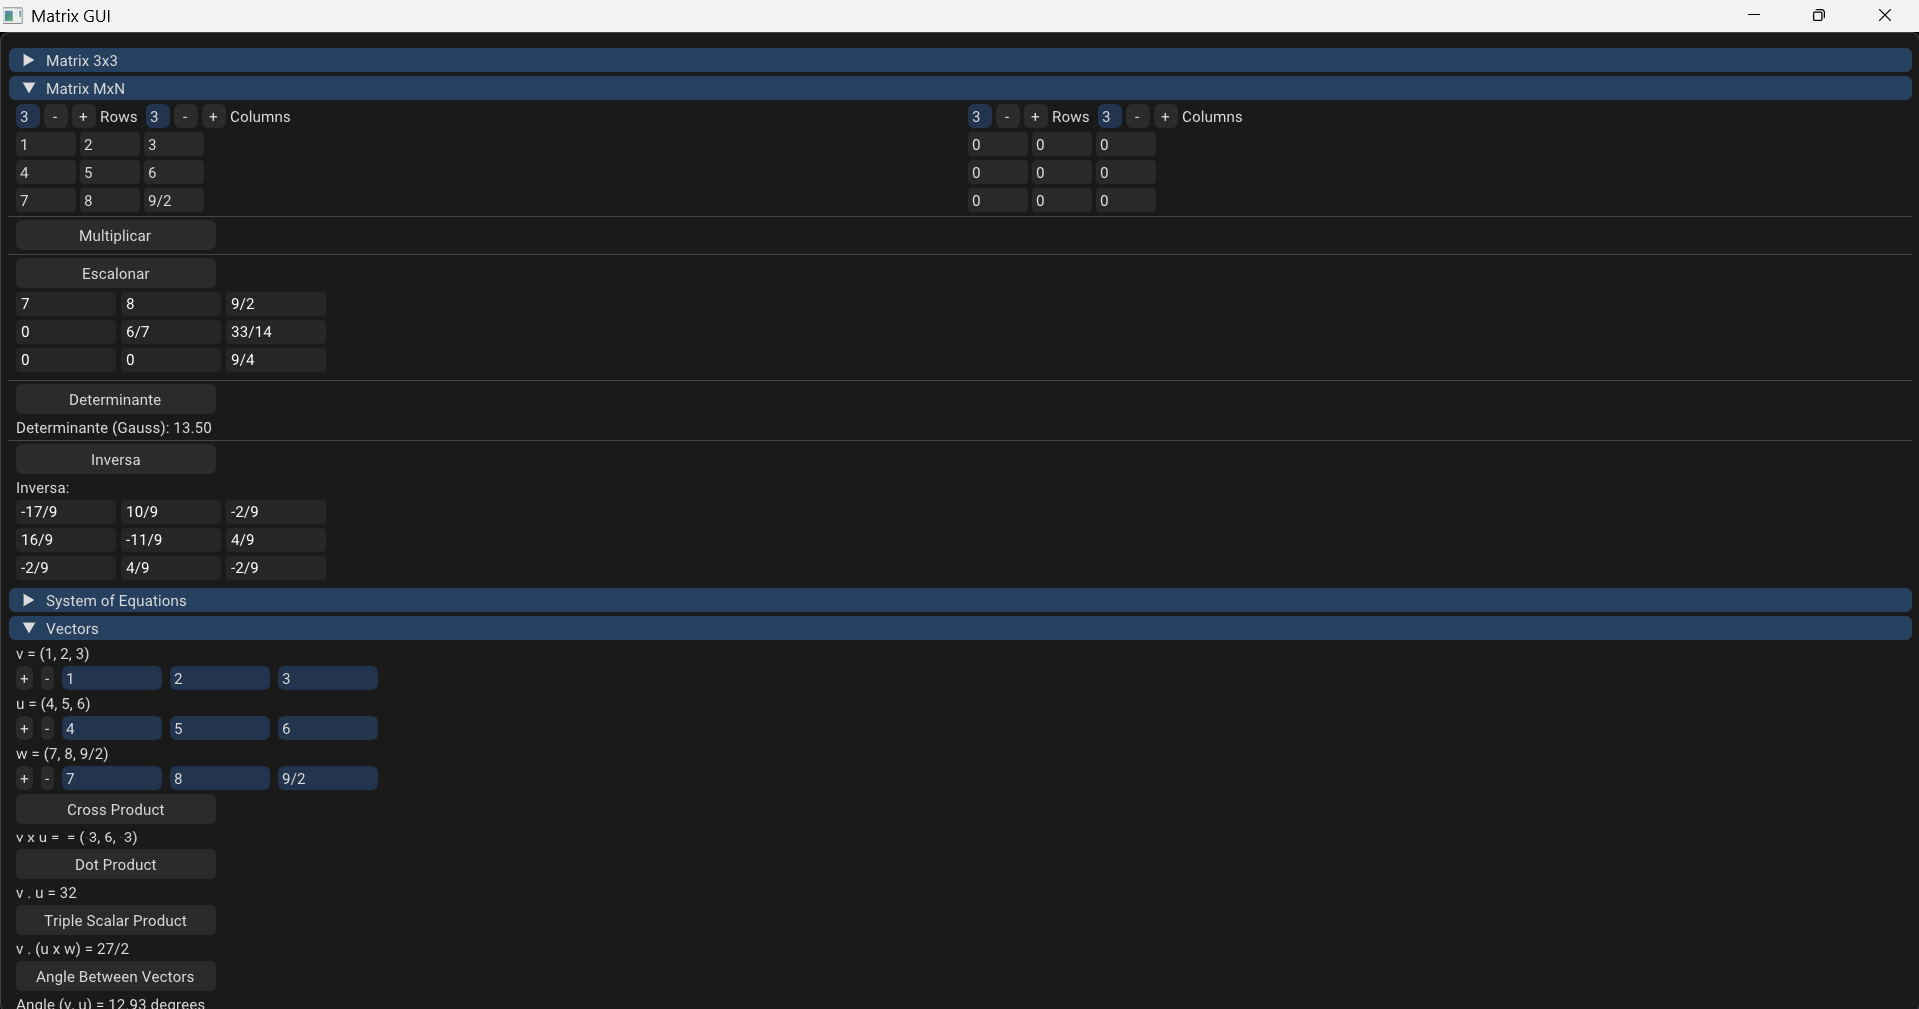
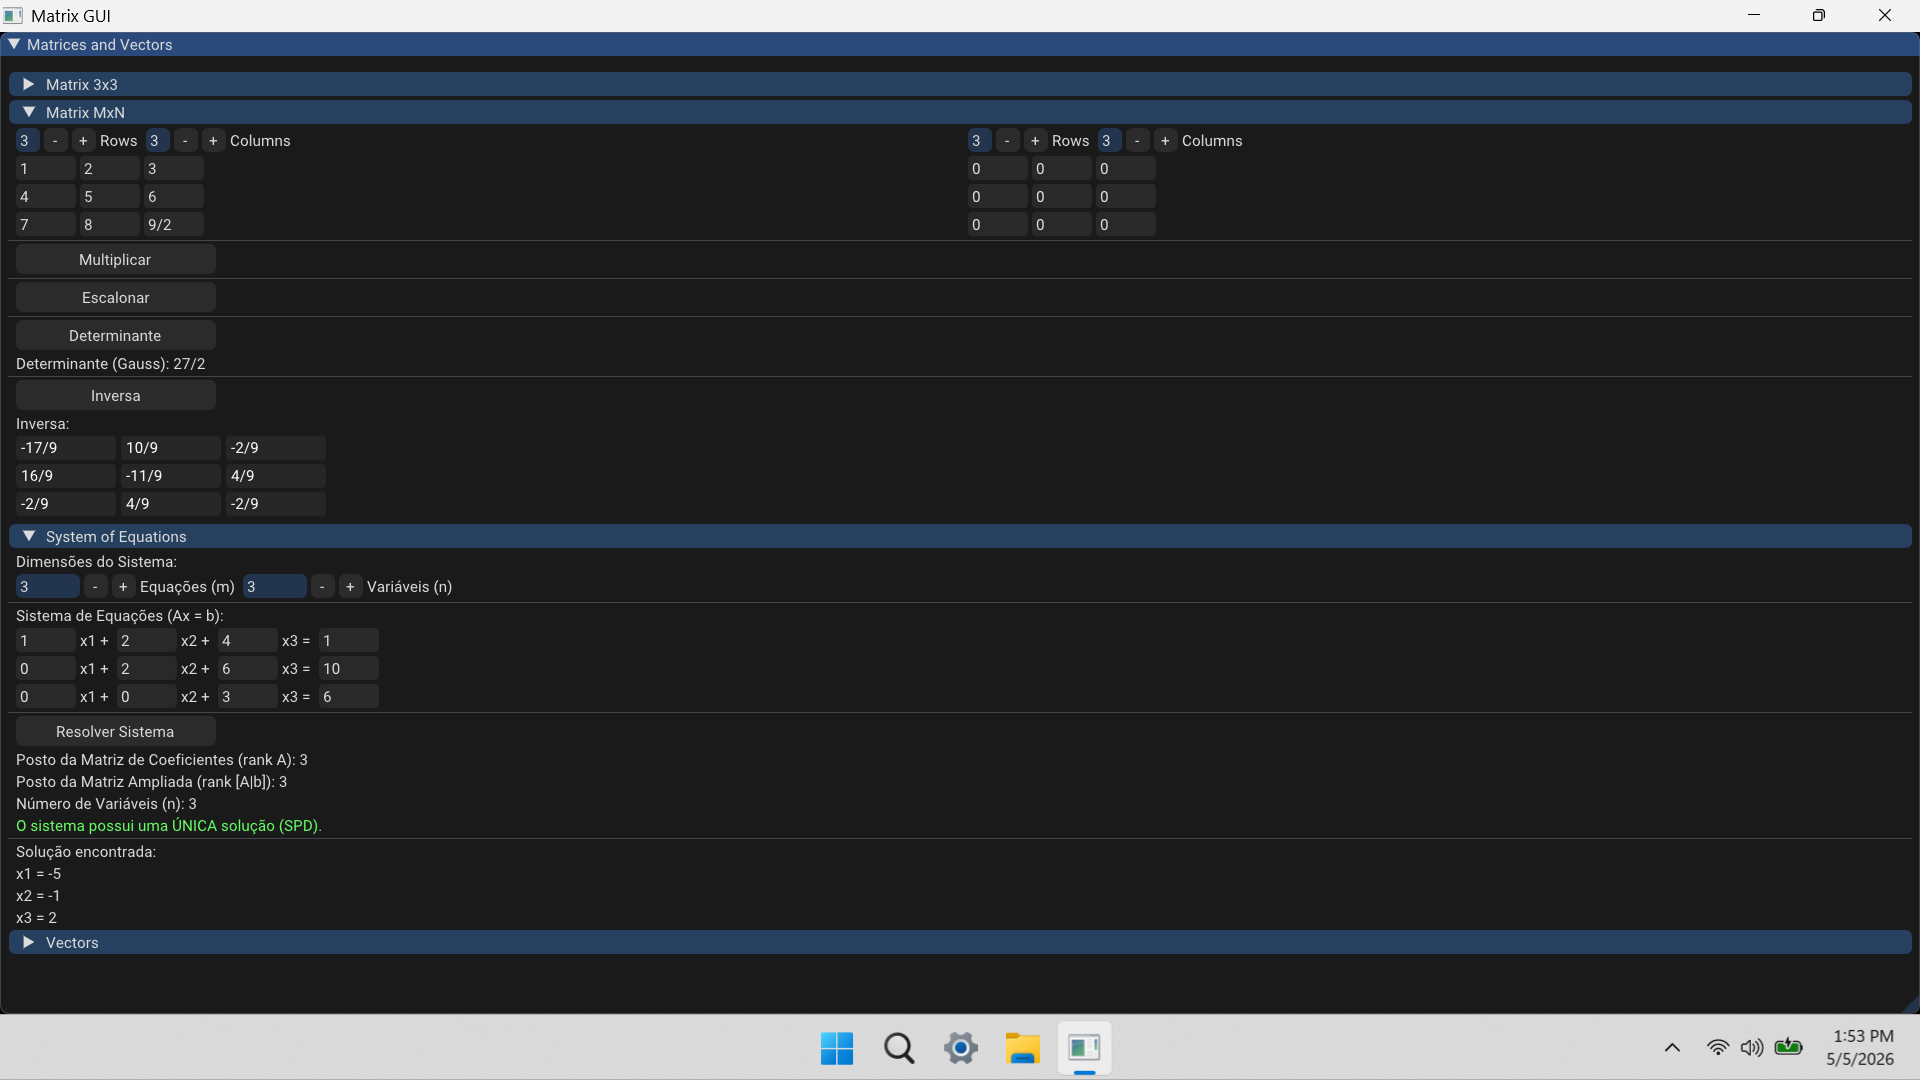
add camera + 3D vectors

diff --git a/src/main.cpp b/src/main.cpp
@@ -11,6 +11,13 @@
 
 #include <Eigen/Dense>
 
+#include <glm/vec3.hpp> // glm::vec3
+#include <glm/vec4.hpp> // glm::vec4
+#include <glm/mat4x4.hpp> // glm::mat4
+#include <glm/ext/matrix_transform.hpp> // glm::translate, glm::rotate, glm::scale
+#include <glm/ext/matrix_clip_space.hpp> // glm::perspective
+#include <glm/ext/scalar_constants.hpp> // glm::pi
+
 int main() {
     if (!glfwInit()) return 1;
     glfwWindowHint(GLFW_CLIENT_API, GLFW_NO_API);
@@ -135,8 +142,9 @@ int main() {
         PushWindowStyle();
         PushButtonStyle();
 
-        ImGui::Begin("Matrices and Vectors", nullptr,
-            ImGuiWindowFlags_NoDecoration | ImGuiWindowFlags_NoMove | ImGuiWindowFlags_NoResize);
+        // ImGui::Begin("Matrices and Vectors", nullptr, ImGuiWindowFlags_NoDecoration | ImGuiWindowFlags_NoMove | ImGuiWindowFlags_NoResize);
+
+        ImGui::Begin("Matrices and Vectors", nullptr);
 
         // ----------------------------------------------------------------
         // Matrix 3x3
@@ -247,6 +255,7 @@ int main() {
             static int rows = 3, cols = 3;
             static std::vector<std::vector<double>> matMN(rows, std::vector<double>(cols, 0.0));
             static double detMN = 0.0;
+			static std::string detMNFrac = "";
             static bool hasDetMN = true;
             static bool detComputed = false;
             static bool multiplicationValid = true;
@@ -319,6 +328,7 @@ int main() {
                 if (rows == cols) {
                     try {
                         detMN = determinant(matMN);
+                        detMNFrac = valueToFraction(detMN);
                         hasDetMN = true;
                         detComputed = true;
                     } catch (const std::exception&) {
@@ -333,7 +343,7 @@ int main() {
             if (!hasDetMN)
                 ImGui::TextDisabled("Determinante: Apenas para matrizes quadradas.");
             else if (detComputed)
-                ImGui::Text("Determinante (Gauss): %.2f", detMN);
+                ImGui::Text("Determinante (Gauss): %s", detMNFrac.c_str());
 
             ImGui::Separator();
             if (ImGui::Button("Inversa##mn", ImVec2(200, 30))) {
@@ -574,6 +584,103 @@ int main() {
                 else {
                     ImGui::TextDisabled("Angle calculation requires equal sizes!");
                 }
+            }
+
+			// Visualization of vectors in 3D space
+            
+            // --- CANVAS ---
+            ImDrawList* draw_list = ImGui::GetWindowDrawList();
+            ImVec2 canvas_pos = ImGui::GetCursorScreenPos();      // Top-left of drawing area
+            ImVec2 canvas_size = ImVec2(ImGui::GetContentRegionAvail().x, 800.0f); // height
+            ImGui::InvisibleButton("canvas", canvas_size);       
+
+            // --- CAMERA MATRIX ---
+            static float camDist = 10.0f;
+            static glm::vec2 camRot = { 0.5f, 0.5f }; 
+            float aspect = canvas_size.x / canvas_size.y;
+			glm::mat4 mvp = camera(camDist, camRot); // model view projection matrix
+
+			// --- CAMERA MOVEMENT ---
+            //ImGui::SliderFloat("Zoom", &camDist, 2.0f, 50.0f);
+            //ImGui::SliderFloat("Rotation X", &camRot.x, -3.14f, 3.14f);
+            //ImGui::SliderFloat("Rotation Y", &camRot.y, -1.57f, 1.57f);
+
+            ImGuiIO& io = ImGui::GetIO();
+
+            if (ImGui::IsItemHovered()) {
+
+                // Zoom
+                if (io.MouseWheel != 0) {
+                    camDist -= io.MouseWheel * 1.5f;
+                    if (camDist < 2.0f) camDist = 2.0f; 
+                }
+
+				// Rotation
+                if (ImGui::IsMouseDragging(ImGuiMouseButton_Left)) {
+                    ImVec2 delta = io.MouseDelta;
+
+					// Increment rotation 
+                    camRot.x += delta.x * 0.01f;
+                    camRot.y -= delta.y * 0.01f;
+
+                    // Vertica rotation limits
+                    if (camRot.y > 1.57f) camRot.y = 1.57f;
+                    if (camRot.y < -1.57f) camRot.y = -1.57f;
+                }
+            }
+
+            // --- GRID (XYZ PLANE) ---
+            int gridSize = 5; // Draws from -5 to 5
+            ImU32 gridColor = IM_COL32(200, 200, 200, 40); // Faint gray
+
+            for (int i = -gridSize; i <= gridSize; i++) {
+
+				// XY plane lines
+                // Lines parallel to X axis
+                ImVec2 p1 = WorldToScreen(glm::vec3(i, -gridSize, 0), mvp, canvas_pos, canvas_size);
+                ImVec2 p2 = WorldToScreen(glm::vec3(i, gridSize, 0), mvp, canvas_pos, canvas_size);
+                draw_list->AddLine(p1, p2, gridColor);
+                // Lines parallel to Y axis
+                ImVec2 p3 = WorldToScreen(glm::vec3(-gridSize, i, 0), mvp, canvas_pos, canvas_size);
+                ImVec2 p4 = WorldToScreen(glm::vec3(gridSize, i, 0), mvp, canvas_pos, canvas_size);
+                draw_list->AddLine(p3, p4, gridColor);
+
+				// XZ plane lines
+                ImVec2 p5 = WorldToScreen(glm::vec3(i, 0, -gridSize), mvp, canvas_pos, canvas_size);
+                ImVec2 p6 = WorldToScreen(glm::vec3(i, 0, gridSize), mvp, canvas_pos, canvas_size);
+                draw_list->AddLine(p5, p6, gridColor);
+                ImVec2 p7 = WorldToScreen(glm::vec3(-gridSize, 0, i), mvp, canvas_pos, canvas_size);
+                ImVec2 p8 = WorldToScreen(glm::vec3(gridSize, 0, i), mvp, canvas_pos, canvas_size);
+				draw_list->AddLine(p7, p8, gridColor);
+            }
+
+            // --- DRAW AXES (X=Red, Y=Green, Z=Blue) ---
+            ImVec2 origin = WorldToScreen(glm::vec3(0, 0, 0), mvp, canvas_pos, canvas_size);
+            ImVec2 xAxis = WorldToScreen(glm::vec3(gridSize, 0, 0), mvp, canvas_pos, canvas_size);
+            ImVec2 yAxis = WorldToScreen(glm::vec3(0, gridSize, 0), mvp, canvas_pos, canvas_size);
+            ImVec2 zAxis = WorldToScreen(glm::vec3(0, 0, gridSize), mvp, canvas_pos, canvas_size);
+
+            draw_list->AddLine(origin, xAxis, IM_COL32(255, 0, 0, 255), 2.0f);
+            draw_list->AddLine(origin, yAxis, IM_COL32(0, 255, 0, 255), 2.0f);
+            draw_list->AddLine(origin, zAxis, IM_COL32(0, 0, 255, 255), 2.0f);
+
+            // --- DRAW VECTORS ---
+            
+            auto DrawEigenVec = [&](Eigen::VectorXd& v, ImU32 color, const char* label) {
+                if (v.size() >= 3) {
+                    glm::vec3 v_glm(v[0], v[1], v[2]);
+                    ImVec2 end = WorldToScreen(v_glm, mvp, canvas_pos, canvas_size);
+                    draw_list->AddLine(origin, end, color, 3.0f);
+                    draw_list->AddText(end, color, label);
+                }
+                };
+
+            DrawEigenVec(v, IM_COL32(255, 255, 0, 255), "v");
+            DrawEigenVec(u, IM_COL32(0, 255, 255, 255), "u");
+            DrawEigenVec(w, IM_COL32(255, 0, 255, 255), "w");
+            if (crossproduct) {
+                Eigen::VectorXd crossVec = v.head<3>().cross(u.head<3>());
+                DrawEigenVec(crossVec, IM_COL32(255, 0, 255, 255), "v x u");
             }
 
         }

diff --git a/src/app_functions.cpp b/src/app_functions.cpp
@@ -5,6 +5,13 @@
 #include <numeric>
 #include <sstream>
 
+#include <glm/vec3.hpp> // glm::vec3
+#include <glm/vec4.hpp> // glm::vec4
+#include <glm/mat4x4.hpp> // glm::mat4
+#include <glm/ext/matrix_transform.hpp> // glm::translate, glm::rotate, glm::scale
+#include <glm/ext/matrix_clip_space.hpp> // glm::perspective
+#include <glm/ext/scalar_constants.hpp> // glm::pi
+
 // ============================================================
 // Shared buffer map
 // ============================================================
@@ -548,4 +555,34 @@ void DrawVectorResult(const char* id, const Eigen::VectorXd& vec) {
     }
     ss << ")";
     ImGui::Text("%s", ss.str().c_str());
+}
+
+// ============================================================
+// Camera
+// ============================================================
+
+glm::mat4 camera(float Translate, glm::vec2 const& Rotate)
+{
+    glm::mat4 Projection = glm::perspective(glm::pi<float>() * 0.25f, 4.0f / 3.0f, 0.1f, 100.f);
+    glm::mat4 View = glm::translate(glm::mat4(1.0f), glm::vec3(0.0f, 0.0f, -Translate));
+    View = glm::rotate(View, Rotate.y, glm::vec3(-1.0f, 0.0f, 0.0f));
+    View = glm::rotate(View, Rotate.x, glm::vec3(0.0f, 1.0f, 0.0f));
+    glm::mat4 Model = glm::scale(glm::mat4(1.0f), glm::vec3(0.5f));
+    return Projection * View * Model;
+}
+
+ImVec2 WorldToScreen(glm::vec3 worldPos, glm::mat4 mvp, ImVec2 canvasPos, ImVec2 canvasSize) {
+    // 1. Transform to Clip Space
+    glm::vec4 clipPos = mvp * glm::vec4(worldPos, 1.0f);
+
+	// Scale distance to camera to get normalized device coordinates (zoom out smaller / zoom in bigger)
+    if (clipPos.w != 0.0f) {
+        clipPos /= clipPos.w;
+    }
+
+    // Map Vector coordinates to pixel coordinates in screen space
+    float x = (clipPos.x + 1.0f) * 0.5f * canvasSize.x + canvasPos.x;
+    float y = (1.0f - clipPos.y) * 0.5f * canvasSize.y + canvasPos.y;
+
+    return ImVec2(x, y);
 }

diff --git a/include/app_functions.h b/include/app_functions.h
@@ -5,6 +5,7 @@
 #include <string>
 #include <unordered_map>
 #include <Eigen/Dense>
+#include <glm/glm.hpp>
 
 // --- Shared buffer map ---
 extern std::unordered_map<std::string, std::vector<std::vector<std::string>>> g_BufferMap;
@@ -35,3 +36,7 @@ void DrawMatrixResultEigen(const char* id, const Eigen::MatrixXd& mat);
 // --- Vectors ---
 void DrawVectorInput(const char* id, Eigen::VectorXd& vec);
 void DrawVectorResult(const char* id, const Eigen::VectorXd& vec);
+
+// --- Camera --- 
+glm::mat4 camera(float Translate, glm::vec2 const& Rotate);
+ImVec2 WorldToScreen(glm::vec3 worldPos, glm::mat4 mvp, ImVec2 canvasPos, ImVec2 canvasSize);

diff --git a/README.md b/README.md
@@ -1,8 +1,10 @@
 # Matrix GUI
 
-A C++ application to perform matrix and vector operations.
+A C++ graphical application to perform matrix and vector operations.
 
-![Screen](img/matrix_gui.png)
+| | |
+| --- | --- |
+| ![Screen](img/matrix_gui.png) | ![Screen](img/matrix_gui2.png) |
 
 ### Download
 
